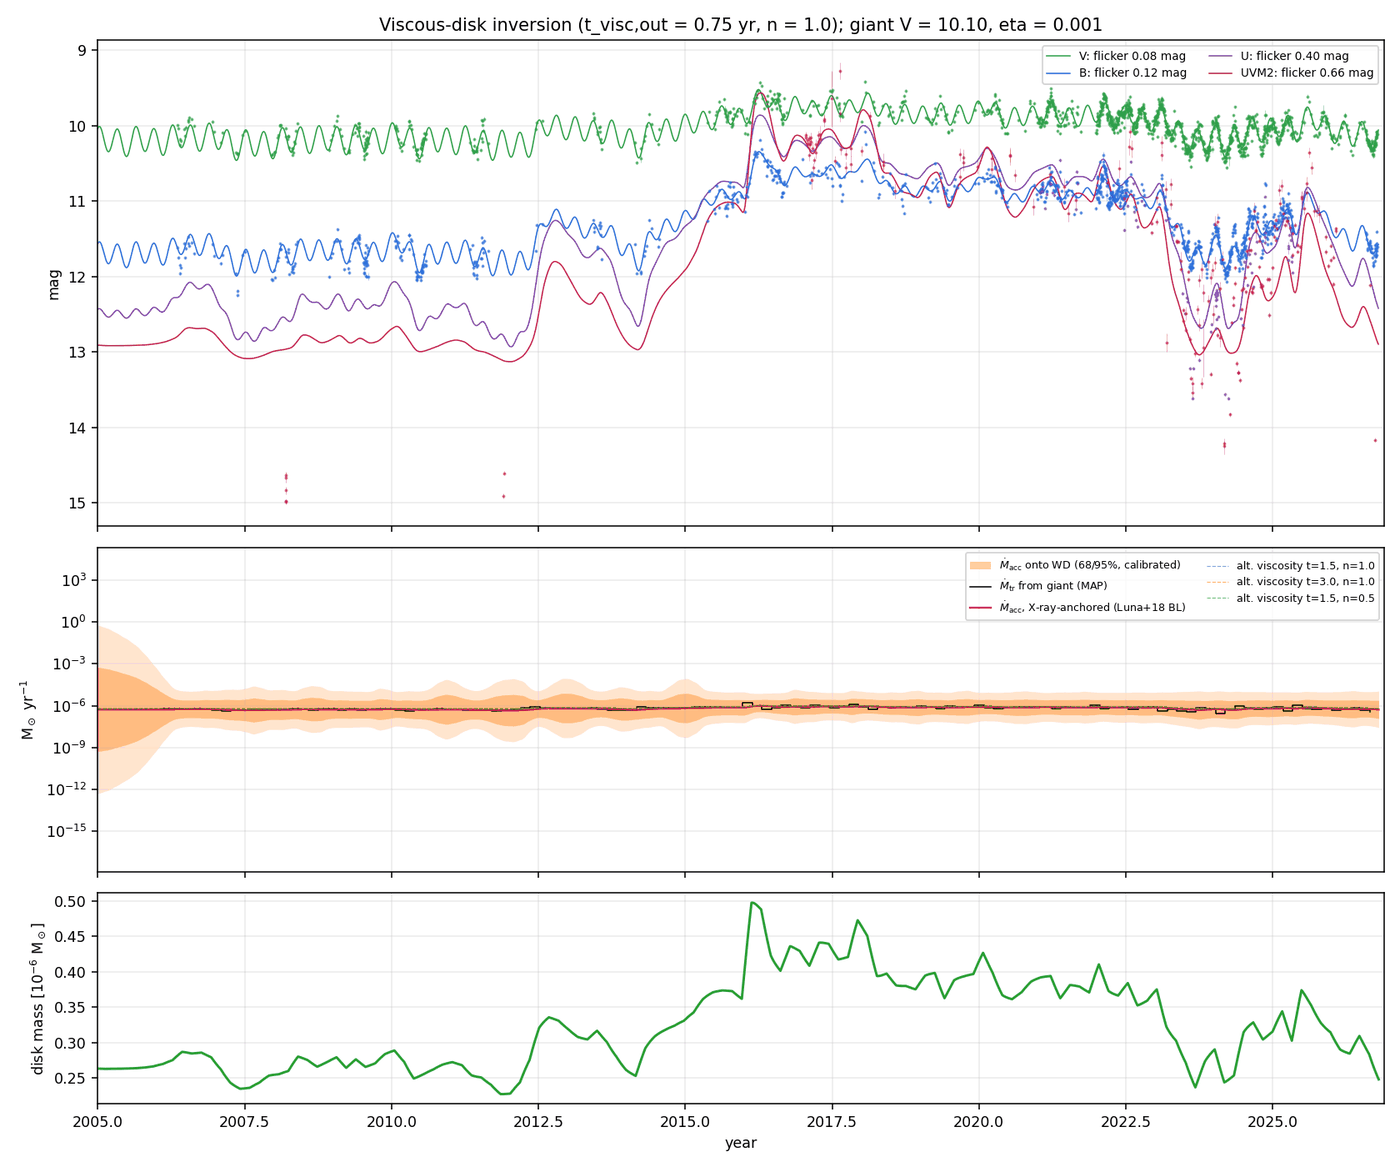
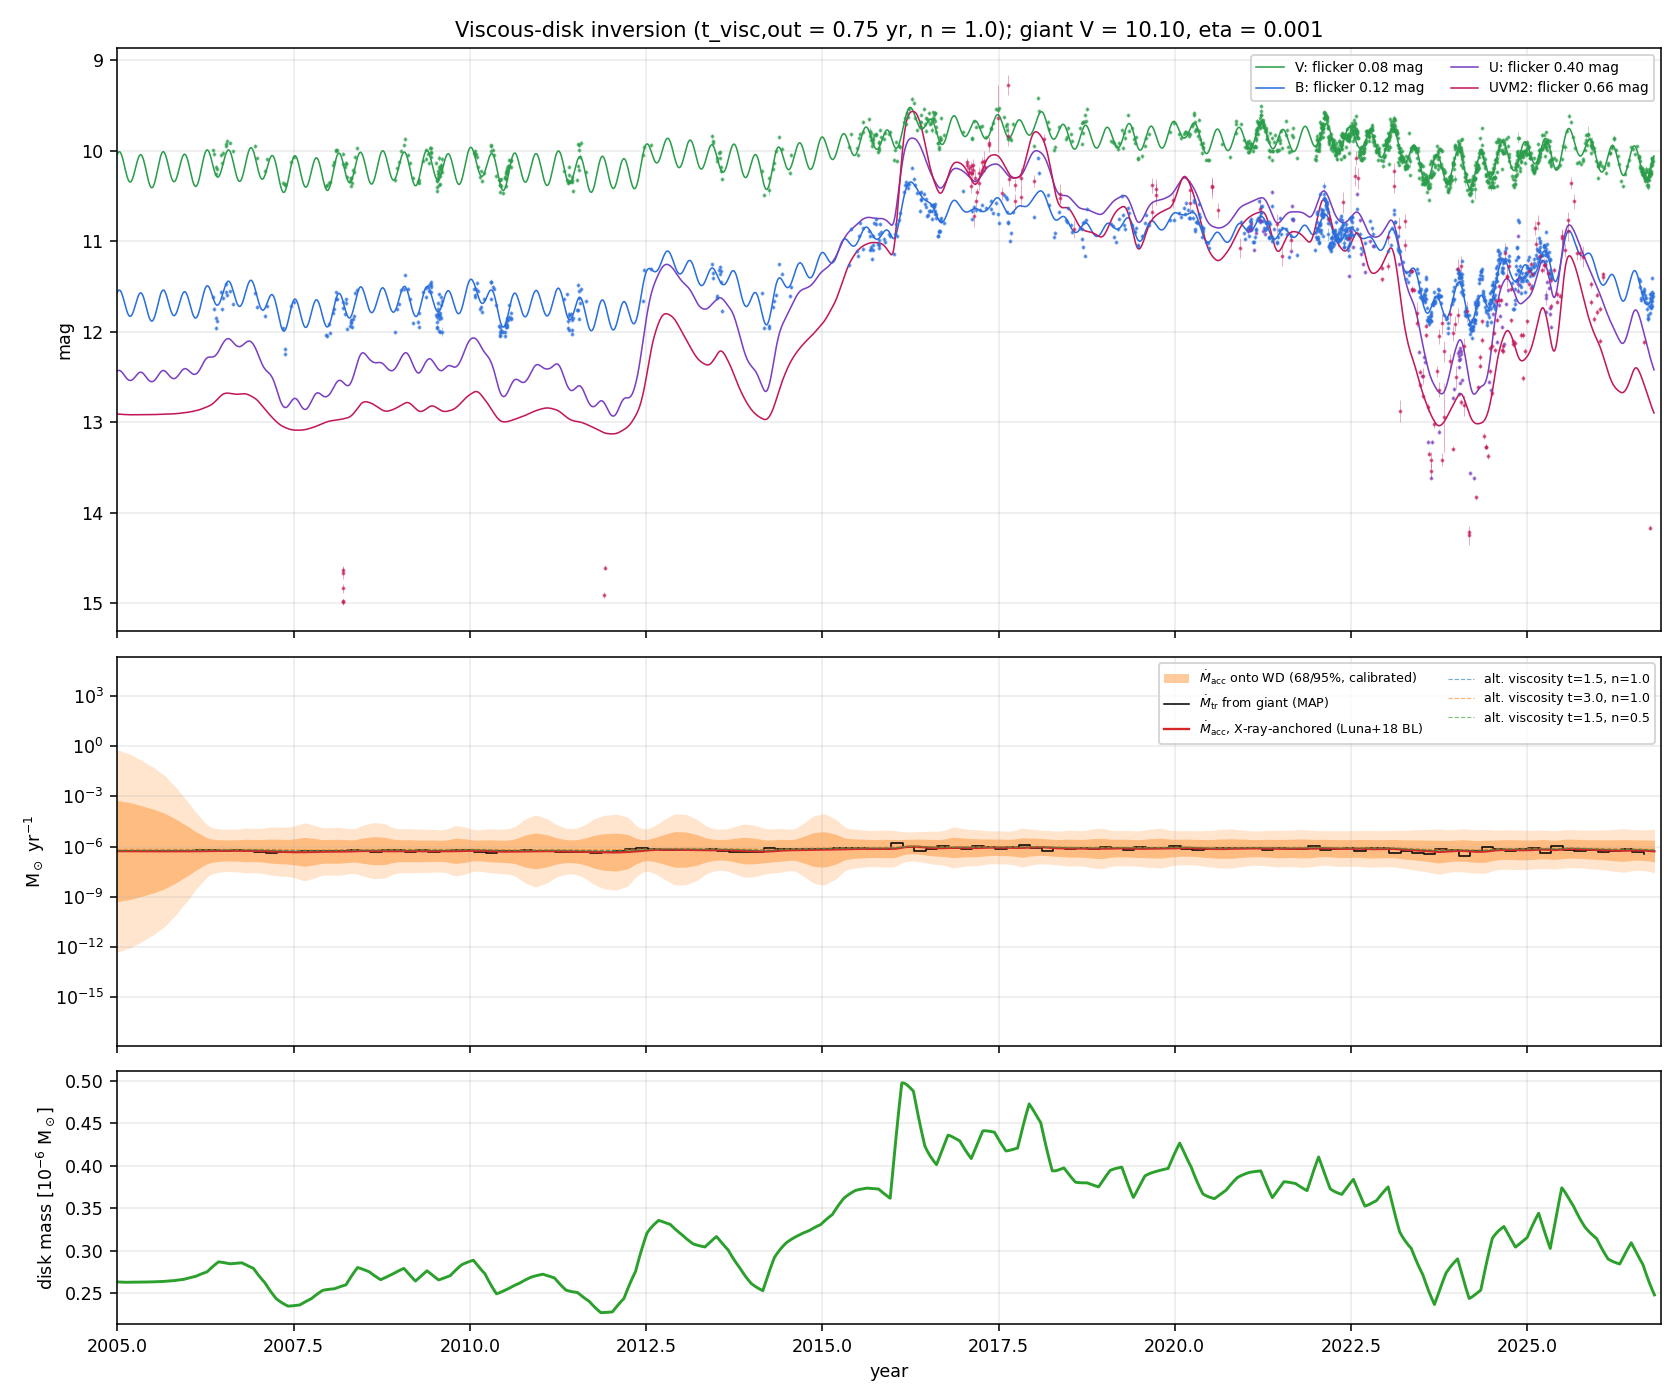
Site: theme toggle, build provenance footer, corrected T CrB figures
- Inversion figure now shows the robust output (inner-edge history) instead of
  the unidentified accretion rate (new stage `inner_edge`, re-plotted from
  inversion_history.npz; the full fit stays linked).
- tcrb_orbit.gif light-curve panel now shows the measured quiescent AAVSO V
  fold against the Roche model, which had been shown alone. Their deeper
  minima are half an orbit apart; logged as an open question in novae.md.
- Sun/moon light/dark toggle (saved choice, set before first paint; OS
  preference otherwise), shared footer with the build commit linking to
  GitHub (injected at build; sha+ when dirty, history link when unpushed) and
  a link to subsurfaces.net. Tests guard both.

Claude-Session: https://claude.ai/code/session_013SBPp9o17zwwkN8aQq6HLK

diff --git a/site/src/build-info.ts b/site/src/build-info.ts
@@ -1,0 +1,28 @@
+// Build provenance for the footer: which commit the deployed site was built from.
+// Evaluated once per build. GIT_SHA (or Cloudflare's WORKERS_CI_COMMIT_SHA) overrides the local git lookup,
+// for builds that run without a .git directory.
+import { execFileSync } from 'node:child_process';
+
+const git = (...args: string[]): string => {
+  try {
+    return execFileSync('git', args, { stdio: ['ignore', 'pipe', 'ignore'] }).toString().trim();
+  } catch {
+    return '';
+  }
+};
+
+export const REPO = 'https://github.com/sub-surface/astro-theory';
+
+const full = process.env.GIT_SHA || process.env.WORKERS_CI_COMMIT_SHA || git('rev-parse', 'HEAD');
+const fromEnv = Boolean(process.env.GIT_SHA || process.env.WORKERS_CI_COMMIT_SHA);
+
+export const sha = full.slice(0, 7);
+// Uncommitted changes under site/ (the build's working directory) mean the deployed pages are not exactly `sha`.
+export const dirty = !fromEnv && git('status', '--porcelain', '--', '.') !== '';
+// A commit that is not yet on GitHub would 404, so link to the history instead.
+export const pushed = fromEnv || (full !== '' && git('branch', '-r', '--contains', full) !== '');
+export const commitUrl = !sha ? REPO : pushed ? `${REPO}/commit/${full}` : `${REPO}/commits/main`;
+export const builtOn = new Date().toISOString().slice(0, 10);
+
+if (dirty) console.warn(`[build-info] building ${sha} with uncommitted changes in site/: footer shows ${sha}+`);
+if (sha && !pushed) console.warn(`[build-info] ${sha} is not on origin yet: footer links to the commit list`);

diff --git a/scripts/novae/tcrb_render_system.py b/scripts/novae/tcrb_render_system.py
@@ -3,7 +3,7 @@
 Outputs (docs/figures/tcrb/):
   * tcrb_roche_map.png      orbital-plane Roche potential, lobes, L-points, stream, disk
   * tcrb_system_states.png  inclined (i = 61 deg) blackbody-colour views: quiescence vs high state
-  * tcrb_orbit.gif          one orbit at i = 61 deg with the synthetic ellipsoidal light curve
+  * tcrb_orbit.gif          one orbit at i = 61 deg with the measured quiescent V fold (and the Roche model)
 Disk temperatures come from the fitted accretion history when data/tcrb/inversion_states.npz
 exists (written by scripts/tcrb_analysis.py); otherwise from steady-state disks at fiducial Mdot.
 """
@@ -186,6 +186,34 @@ def load_states():
             "labels": {"quiet": "steady disk, 2e-9 Msun/yr", "high": "steady disk, 1e-7 Msun/yr", "now": "steady disk, 2e-8 Msun/yr"}}
 
 
+def quiescent_fold(n_bins: int = 20):
+    """AAVSO V 2006-2014.5 (cold disk, giant-dominated), secular trend removed, folded on our ephemeris.
+
+    Phase 0 = deeper V minimum, which falls at phase 0.99 of the literature light-minimum (giant in front) ephemeris.
+    Returns bin centres, median offsets (mean-subtracted) and their errors, plus the raw fold.
+    """
+    import json
+    sys.path.insert(0, str(ROOT / "scripts" / "novae"))
+    from tcrb_analysis import load_aavso  # noqa: E402
+    from celestrium.novae import tcrb
+    from celestrium.novae.tcrb import year_to_jd
+    eph = json.loads((ROOT / "docs" / "results" / "experiment_y_tcrb_results.json").read_text())["ephemeris"]
+    V = load_aavso()[0]["V"]
+    t, m, e = V["jd"], V["mag"], np.hypot(V["err"], 0.04)
+    q = (t > year_to_jd(2006.0)) & (t < year_to_jd(2014.5))
+    fq = tcrb.fit_ephemeris(t[q], m[q], e[q], [eph["period_d"]], knot_spacing_d=150.0)
+    orb = m[q] - fq["trend"]
+    orb -= np.median(orb)
+    ph = tcrb.orbital_phase(t[q], eph["t_deeper_min_jd"], eph["period_d"])
+    edges = np.linspace(0, 1, n_bins + 1)
+    mid = 0.5 * (edges[1:] + edges[:-1])
+    med = np.array([np.median(orb[(ph >= a) & (ph < b)]) for a, b in zip(edges[:-1], edges[1:])])
+    err = np.array([1.253 * np.std(orb[(ph >= a) & (ph < b)]) / np.sqrt(((ph >= a) & (ph < b)).sum())
+                    for a, b in zip(edges[:-1], edges[1:])])
+    off = med.mean()
+    return mid, med - off, err, ph, orb - off
+
+
 def main():
     states = load_states()
     roche_map(states)
@@ -199,6 +227,8 @@ def main():
     # orbit animation with synthetic ellipsoidal light curve
     import imageio.v2 as imageio
     ph_lc, m_lc, _ = ellipsoidal_lightcurve(Q, INC, 5450, surf=donor_surface(Q, 1.0, 48, 96))
+    m_lc = np.asarray(m_lc) - np.mean(m_lc)
+    f_mid, f_med, f_err, f_ph, f_orb = quiescent_fold()
     frames = []
     tmp = FIG / "_frame.png"
     for k, p in enumerate(np.linspace(0, 1, 48, endpoint=False)):
@@ -206,14 +236,17 @@ def main():
         ax = fig.add_axes([0, 0.28, 1, 0.7])
         draw_view(ax, p, states["high"], surf)
         bx = fig.add_axes([0.12, 0.07, 0.8, 0.18], facecolor="black")
-        bx.plot(ph_lc, m_lc, color="#ffcc66")
+        bx.plot(f_ph, f_orb, ".", ms=1.2, color="#555555")
+        bx.plot(ph_lc, m_lc, color="#8899aa", lw=0.9, ls="--", label="Roche model, blackbody, i = 61°")
+        bx.errorbar(f_mid, f_med, f_err, fmt="o", ms=3, lw=0.8, color="#ffcc66", label="AAVSO V 2006-14, folded")
         bx.axvline(p, color="white", lw=0.8)
-        bx.invert_yaxis()
+        bx.set_ylim(0.32, -0.32)
+        bx.legend(fontsize=6.5, loc="lower right", bbox_to_anchor=(1.0, 1.0), ncol=2, frameon=False, labelcolor="white")
         bx.tick_params(colors="white", labelsize=8)
         for sp in bx.spines.values():
             sp.set_color("#555555")
         bx.set_xlabel("orbital phase (0 = giant in front)", color="white", fontsize=8)
-        bx.set_ylabel("$\\Delta V$ giant", color="white", fontsize=8)
+        bx.set_ylabel("$\\Delta V$ (mag)", color="white", fontsize=8)
         fig.text(0.02, 0.95, "T CrB  i = 61$^\\circ$  P = 227.6 d", color="white", fontsize=10)
         fig.savefig(tmp, dpi=80, facecolor="black")
         plt.close(fig)

diff --git a/scripts/novae/tcrb_analysis.py b/scripts/novae/tcrb_analysis.py
@@ -964,6 +964,55 @@ STAGES["export"] = stage_export
 STAGES["overlay"] = stage_overlay
 
 
+def stage_inner_edge():
+    """Public inversion figure: the data and the inner-edge history, the result that is robust across v1-v3.
+
+    Re-plots data/tcrb/inversion_history.npz (written by stage_inversion); no refit. The absolute accretion rate
+    is degenerate with the truncation (ledger, EXP-2026-Y), so it is deliberately not plotted here.
+    """
+    from celestrium.novae.tcrb import RSUN
+    av, _ = load_aavso()
+    uv = load_uvot()
+    h = np.load(DATA / "inversion_history.npz")
+    t, r = h["t_yr"], h["r_trunc"] / RSUN
+    fig, axs = plt.subplots(2, 1, figsize=(10, 6.4), sharex=True, gridspec_kw={"height_ratios": [1.3, 1]})
+    ax = axs[0]
+    for b in ("V", "B"):
+        s = jd_to_year(av[b]["jd"]) >= 2005
+        ax.plot(jd_to_year(av[b]["jd"])[s], av[b]["mag"][s], ".", ms=1.5, color=BAND_COL[b], alpha=0.6, label=f"{b} (AAVSO, ANS)")
+    ax.errorbar(jd_to_year(uv["UVM2"]["jd"]), uv["UVM2"]["mag"], uv["UVM2"]["err"], fmt="o", ms=2.5, lw=0.5,
+                color=BAND_COL["UVM2"], label="UVM2 (Swift/UVOT)")
+    ax.invert_yaxis()
+    ax.set_ylabel("mag")
+    ax.legend(fontsize=7.5, loc="upper left", ncol=3, framealpha=0.9)
+    ax.set_ylim(15.3, 8.6)
+    ax.set_title("T CrB accretion-disk inversion: what the data constrain", fontsize=10)
+    ax = axs[1]
+    for lo, hi, lab, c in ((2015.0, 2023.2, "high state", "C1"), (2023.2, 2024.3, "2023 dip", "C0"), (2026.6, 2026.9, "Sep 2026", "C3")):
+        for a in axs:
+            a.axvspan(lo, hi, color=c, alpha=0.09, lw=0)
+        edge = hi > 2026
+        ax.text(hi - 0.05 if edge else (lo + hi) / 2, 0.97, lab, transform=ax.get_xaxis_transform(),
+                ha="right" if edge else "center", va="top", fontsize=7.5, color="0.35")
+    ax.plot(t, r, color="k", lw=1.4)
+    ax.set_ylabel(r"inner disk edge (R$_\odot$)")
+    ax.set_ylim(0, max(3.6, float(r.max()) * 1.1))
+    ax.set_xlabel("year")
+    ax.set_xlim(2005, 2026.9)
+    ax.text(0.01, 0.04, "MAP history of the best-fitting viscous disk (t_visc = 0.75 yr); the same shape in inversion "
+            "variants v1-v3.\nThe absolute accretion rate is degenerate with the truncation and is not identified.",
+            transform=ax.transAxes, fontsize=7, color="0.3")
+    fig.tight_layout()
+    fig.savefig(FIG / "tcrb_inner_edge.png", dpi=140)
+    plt.close(fig)
+    i_now = -1
+    print(f"inner edge: quiescent median {np.median(r[(t > 2005) & (t < 2014)]):.2f}, "
+          f"high-state median {np.median(r[(t > 2016) & (t < 2022)]):.2f}, now ({t[i_now]:.2f}) {r[i_now]:.2f} Rsun")
+
+
+STAGES["inner_edge"] = stage_inner_edge
+
+
 if __name__ == "__main__":
     for st in (sys.argv[1:] or list(STAGES)):
         STAGES[st]()

diff --git a/tests/test_site.py b/tests/test_site.py
@@ -69,3 +69,14 @@ def test_v347nor_page_figures_and_data_exist():
     assert data["det"] and data["lim"] and data["cut"]
     assert "G3_onset_from_cutouts" in data["audit"] and data["stamps"]["n_control"] > 100
     assert "CANDIDATE" in src  # must stay labelled a candidate until the original plates are checked
+
+
+def test_layout_theme_toggle_and_provenance_footer():
+    src = (SITE_DIR / "src" / "layouts" / "Base.astro").read_text(encoding="utf-8")
+    assert 'id="theme-btn"' in src and ':root[data-theme="dark"]' in src
+    assert ':root:not([data-theme="light"])' in src  # OS dark mode must yield to an explicit light choice
+    assert "https://subsurfaces.net" in src and "commitUrl" in src
+    for block in re.findall(r"<script is:inline>(.*?)</script>", src, flags=re.S):
+        assert not re.search(r"&(gt|lt|amp);", block), "HTML entities break inline scripts (CLAUDE.md N1)"
+    info = (SITE_DIR / "src" / "build-info.ts").read_text(encoding="utf-8")
+    assert "execFileSync" in info and "GIT_SHA" in info

diff --git a/CLAUDE.md b/CLAUDE.md
@@ -39,7 +39,7 @@ celestrium/                 the package
   cli.py hub.py dashboard.py config.py paths.py net.py watchlist.py modal_app.py   surfaces and shared infrastructure
 scripts/<programme>/        runnable experiments: dipole/ novae/ engines/ transients/ explore/ infra/
 docs/                       ledger.md, programmes/, results/, figures/, reference/, engineering/, manuscripts/, history/
-tests/                      hermetic test suite (`python -m pytest`; 270 fast tests, slow ones marked `slow`)
+tests/                      hermetic test suite (`python -m pytest`; 271 fast tests, slow ones marked `slow`)
 data/ checkpoints/ cache/   local only (git-ignored)
 Archive/                    shelved June 2026 dipole pipeline (G)
 site/                       one-page public listing (astro.subsurfaces.net); wrangler.toml deploys it to Cloudflare Workers
@@ -83,7 +83,7 @@ New programme code goes in its subpackage and its scripts in `scripts/<programme
 
 ### F. Hermetic Test Integrity
 - **Standard**: All tests in `tests/` must execute 100% hermetically without internet access. Data streamers, brokers (GraceDB, ALeRCE), and TAP clients must supply local synthetic/cached fallbacks.
-- Verify regularly: `python -m pytest` (270 fast tests pass as of 2026-10-14).
+- Verify regularly: `python -m pytest` (271 fast tests pass as of 2026-10-14).
 
 ### G. Windows PowerShell UTF-8 Encoding for Modal CLI
 - **Gotcha**: Windows PowerShell defaults to `cp1252` encoding, causing Modal CLI to crash with `'charmap' codec can't encode character '\u2713'` (checkmark) when rendering terminal status.
@@ -135,6 +135,8 @@ New programme code goes in its subpackage and its scripts in `scripts/<programme
 - **Cloudflare Edge Deployment**: Web platform deployed to Cloudflare Workers with static assets serving [https://astro.subsurfaces.net](https://astro.subsurfaces.net). Automated builds via `wrangler.toml` (`[build] command = "npm --prefix site install && npm --prefix site run build"`). Custom OpenGraph suite and SVG/ICO favicons live at edge.
   - **Deploying**: `git push` does not redeploy the site. Run `npx wrangler deploy` from the repo root (builds `site/` and uploads). Stop any `astro preview` server first: it locks `site/node_modules` and `npm ci` fails with EPERM.
   - `site/src/data/` is tracked despite the repo-wide `data/` ignore; regenerate it with `python scripts/novae/export_site_data.py`.
+  - The footer shows the commit the site was built from (`site/src/build-info.ts`): commit before deploying, or it reads `sha+` (uncommitted changes in `site/`). A commit not yet on GitHub links to the commit list instead of 404ing. Builds without `.git` can pass `GIT_SHA`.
+  - Theme: tokens on `:root` (light), redefined for OS dark under `:root:not([data-theme="light"])` and for the toggle under `:root[data-theme="dark"]` (`site/src/layouts/Base.astro`). New colours go in all three blocks.
 
 ---
 

diff --git a/docs/programmes/novae.md b/docs/programmes/novae.md
@@ -181,3 +181,10 @@ How many RNe hide among the "classical" novae? Pagnotta & Schaefer 2014 give 24 
 
 Abrupt state changes (thermal switch vs truncation vs in-binary obscuration); why T CrB is the UV-faint family member;
 the fuel budget; scoring the published forecasts after the eruption.
+
+**Which minimum is deeper (found 2026-10-14).** Folded on our ephemeris, quiescent AAVSO V (2006–14) has its deeper
+minimum at phase 0, which is phase 0.99 of the literature light-minimum ephemeris (taken as giant in front). Our
+gravity-darkened Roche giant (`celestrium/novae/roche.py`, blackbody, i = 61°) puts the deeper minimum half an orbit
+later, with the L1 face towards us. Two possibilities: light the model omits (disk, hot spot, irradiated giant), or
+a half-orbit offset in what the literature phase zero means (check it against the spectroscopic conjunction in
+Fekel+ 2000). This matters for the inclination limit from the ellipsoidal amplitude. Shown in `tcrb_orbit.gif`.
